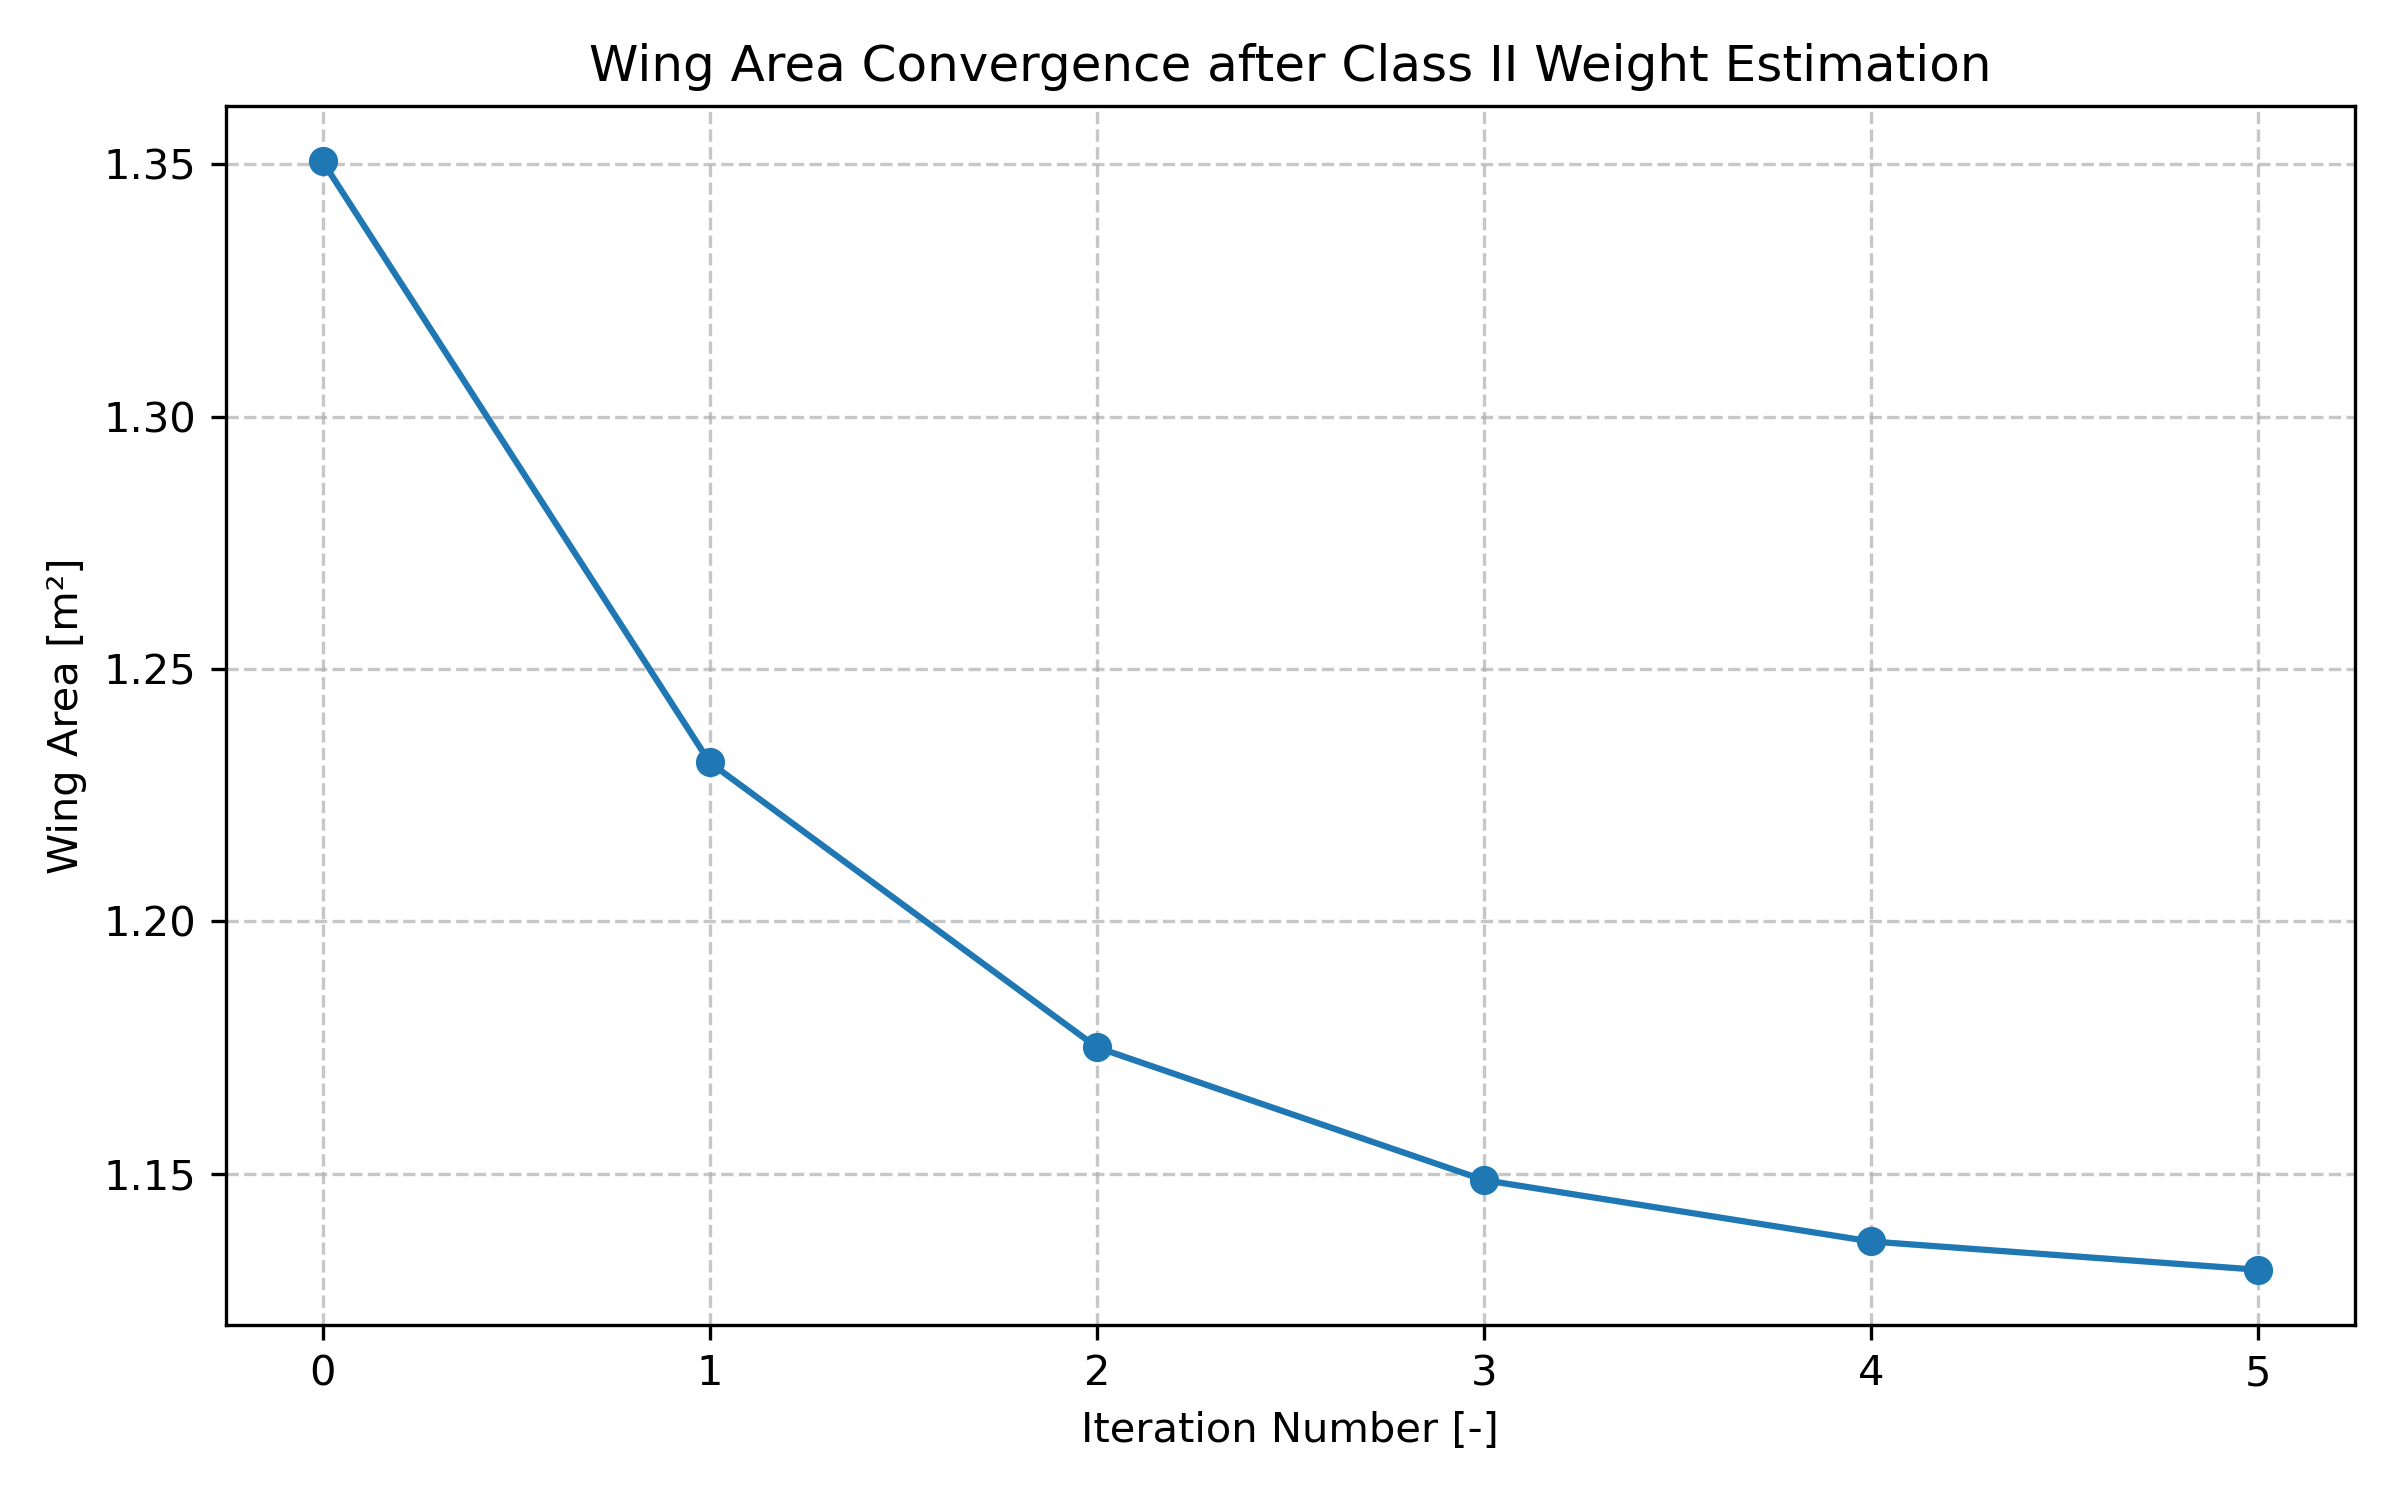
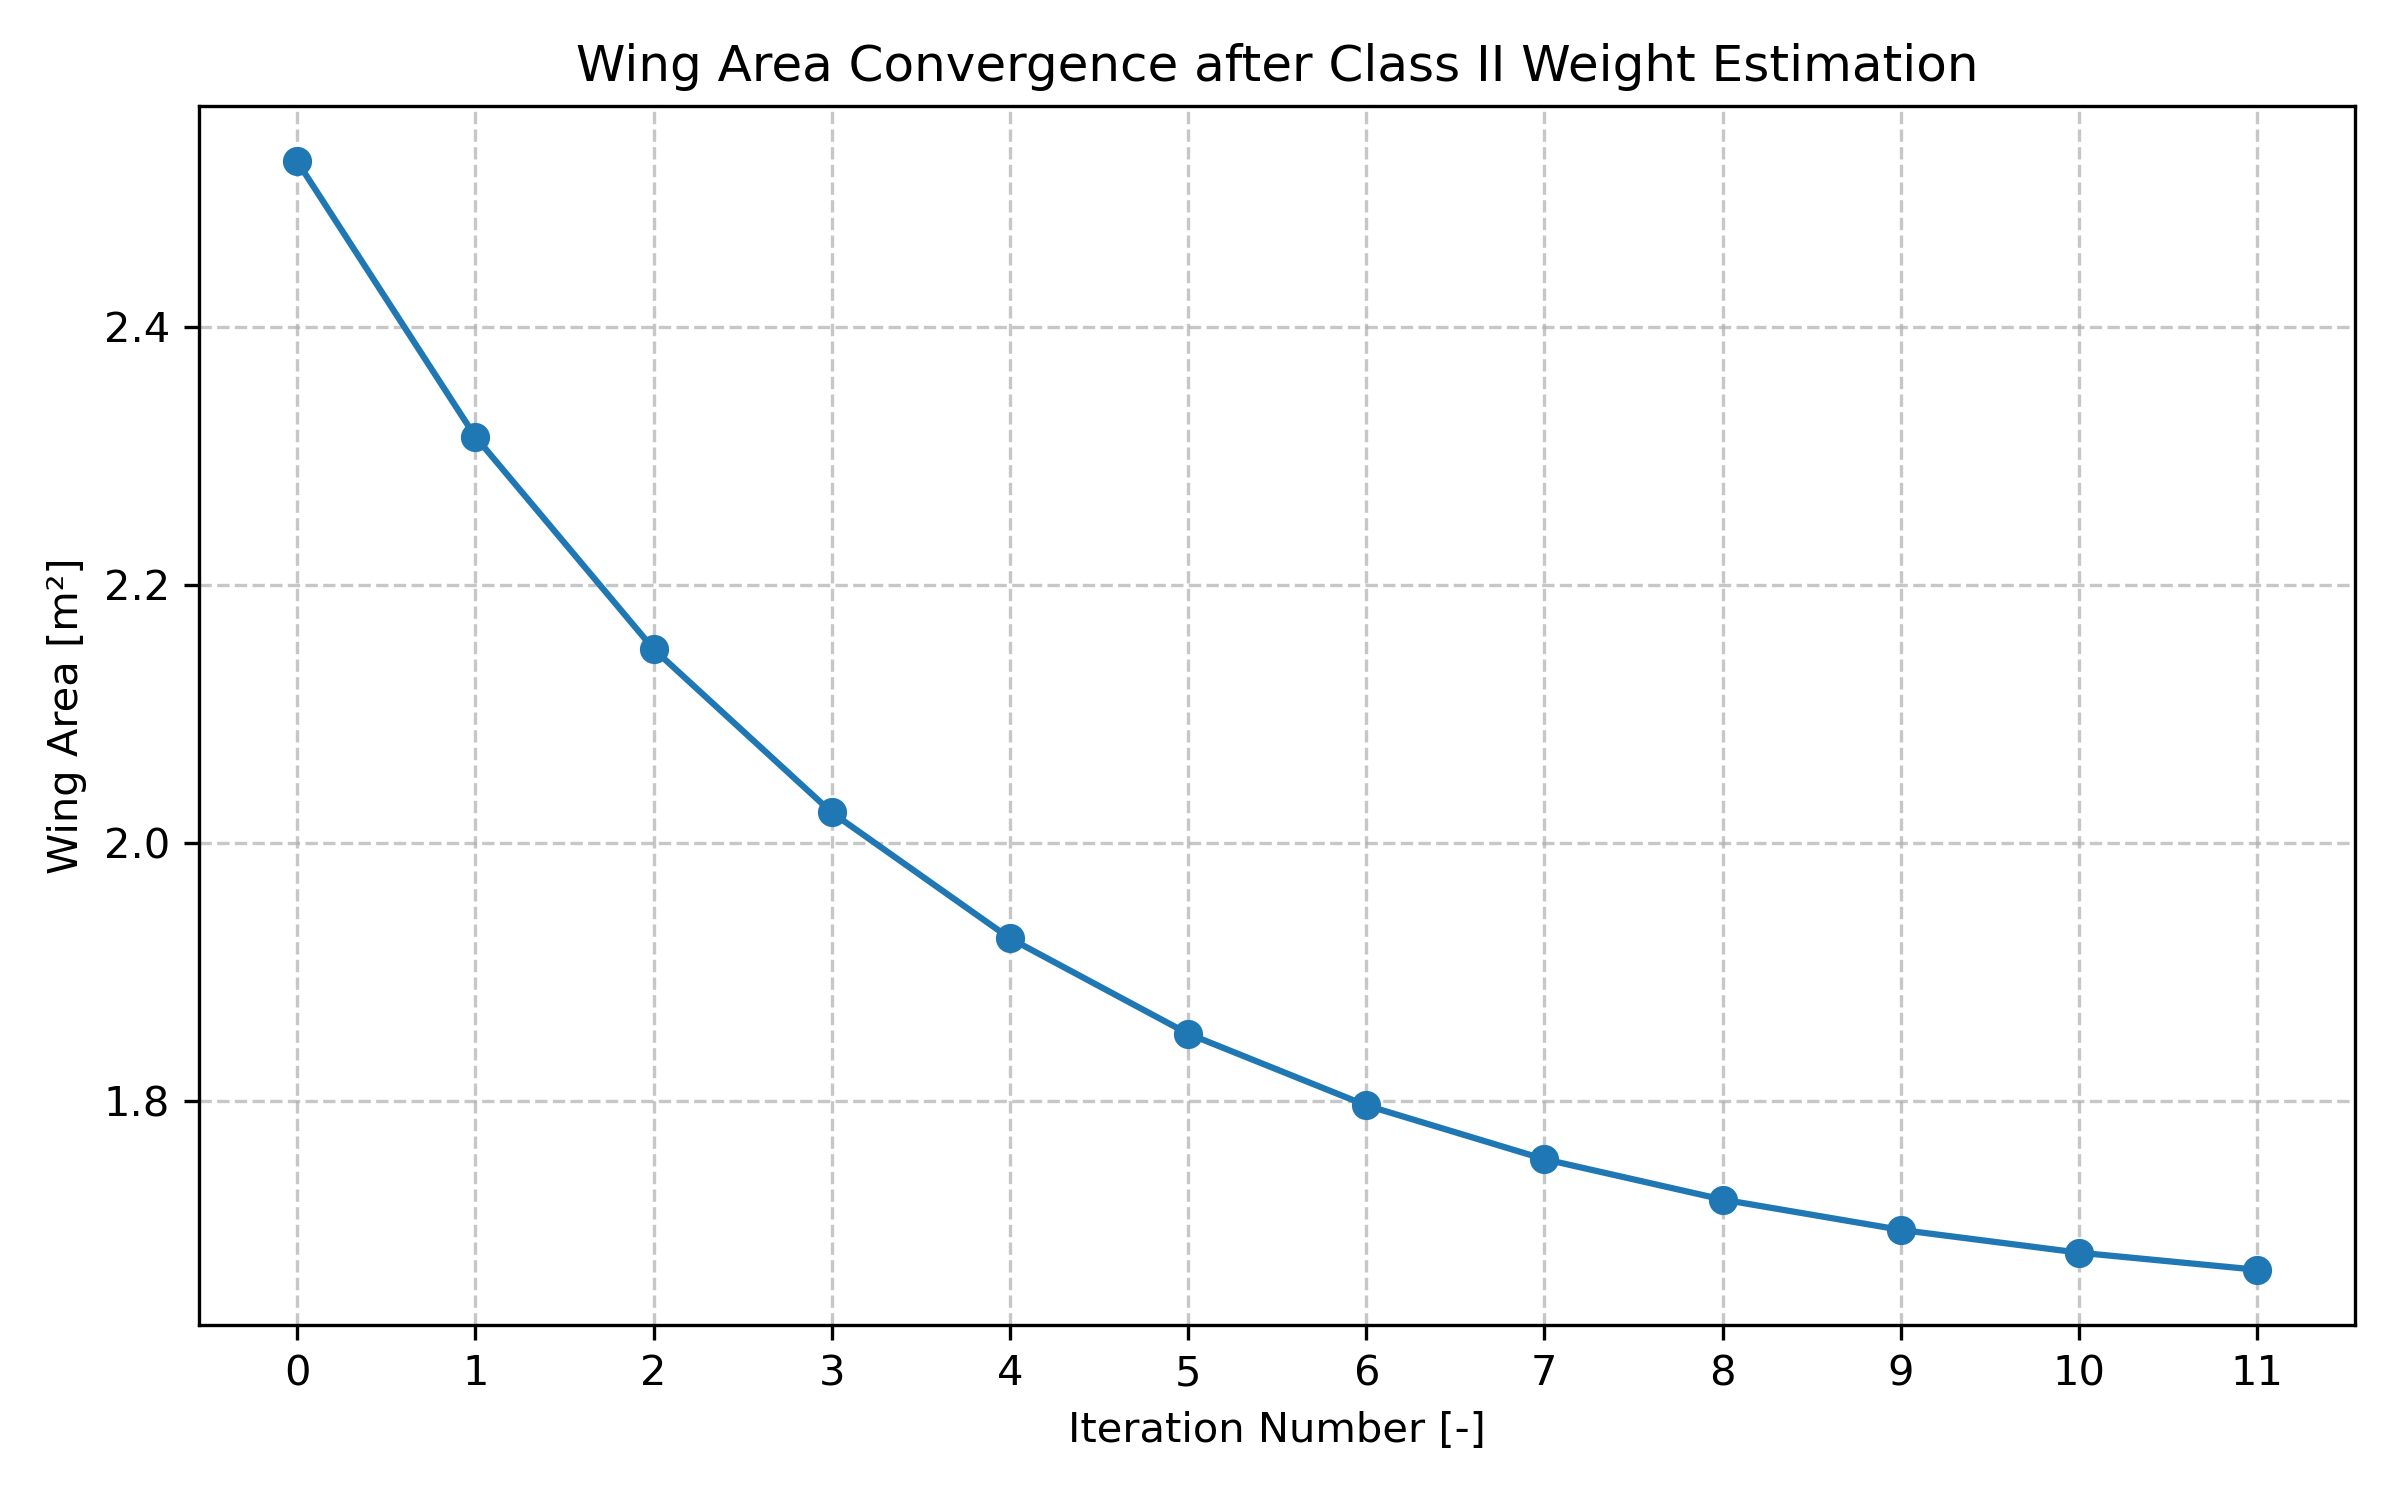
updated the power thrust relation and also the payload mechanism weight (also in regression)

diff --git a/prelim_des/power.py b/prelim_des/power.py
@@ -127,7 +127,17 @@ class VertPropeller:
         Returns:
         float: Power in Watts.
         """
-        return thrust**1.5 / np.sqrt(2 * ρ * self.area * self.η_prop) / FM
+        power = thrust**1.5 / np.sqrt(2 * ρ * self.area * self.η_prop) / FM
+        print(f"Power required for propeller: {power} W")
+        thrust_per_prop = thrust / self.n_vert_prop()
+        power_per_power = 40.518 * thrust_per_prop - 645.22
+        if thrust < 28 or thrust > 110:
+            logging.warning(
+                f"Thrust {thrust} N is outside the expected range (30-100 N). Power calculation may not be accurate."
+            )
+        total_power = power_per_power * self.n_vert_prop()  # Total power for all vertical propellers
+        print(f"Power required for vertical propellers: {total_power} W")
+        return total_power
 
     def n_vert_prop(self) -> int:
         """
@@ -135,7 +145,7 @@ class VertPropeller:
         Returns:
         int: Number of vertical propellers.
         """
-        return 8
+        return 4
 
     def weight(self) -> float:
         """

diff --git a/prelim_des/drone.py b/prelim_des/drone.py
@@ -43,7 +43,8 @@ class Drone:
         self.max_payload = (
             toml["config"]["payload"]["n_box"] * toml["config"]["payload"]["box_weight"]
         )
-        self.MTOW = get_MTOW_from_payload(self.max_payload)
+        design_payload = self.structure.delivery_mechanism_weight() + self.max_payload
+        self.MTOW = get_MTOW_from_payload(design_payload)
         self.OEW = self.MTOW - self.max_payload
         if self.OEW <= 0:
             logging.error(

diff --git a/prelim_des/main_weight_estimation.py b/prelim_des/main_weight_estimation.py
@@ -28,7 +28,7 @@ drone.class_2_weight_estimate(transition=True)
 # print("Drone MTOW after class 2 estimate:", drone.MTOW)
 # print("Drone OEW after class 2 estimate:", drone.OEW)
 
-drone.iterative_weight_estimate(transition=True, plot=True, tolerance=0.01)
+drone.iterative_weight_estimate(transition=True, plot=True, max_iterations=100, tolerance=0.01)
 print("Drone MTOW after iterative estimate:", drone.MTOW)
 # print(f"Wing surface area: {drone.wing.S}")
 
